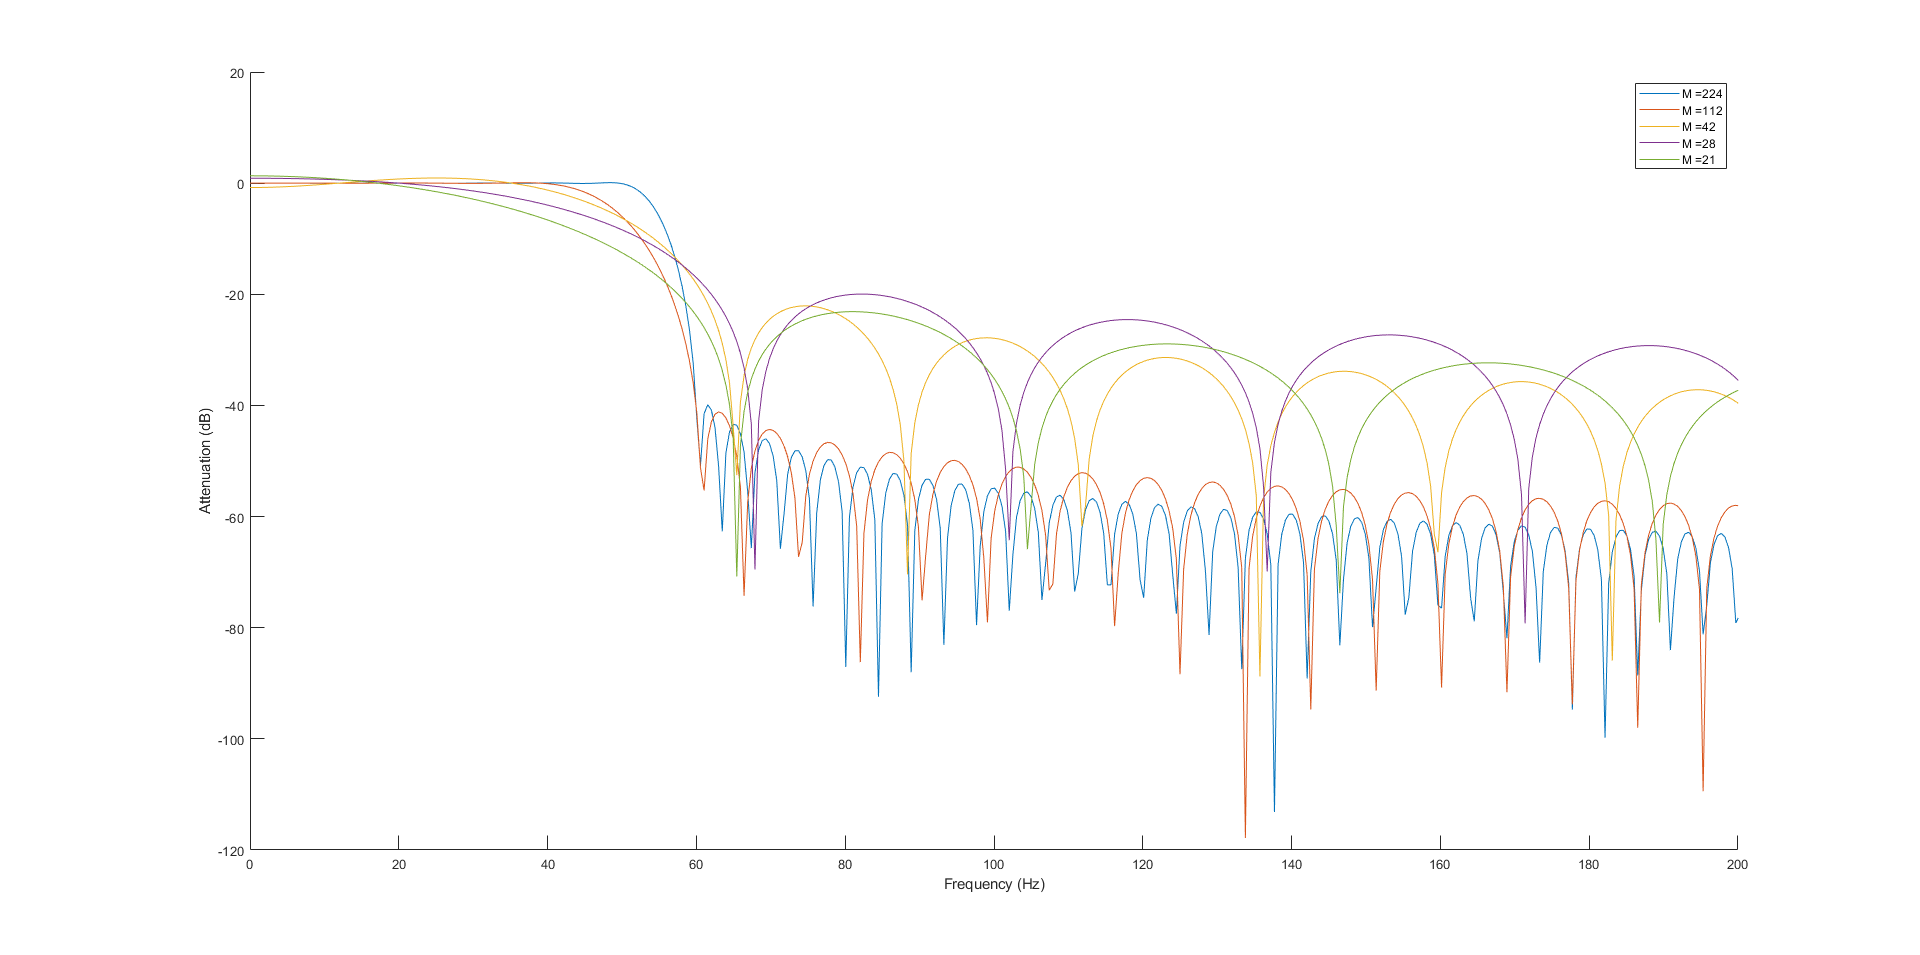
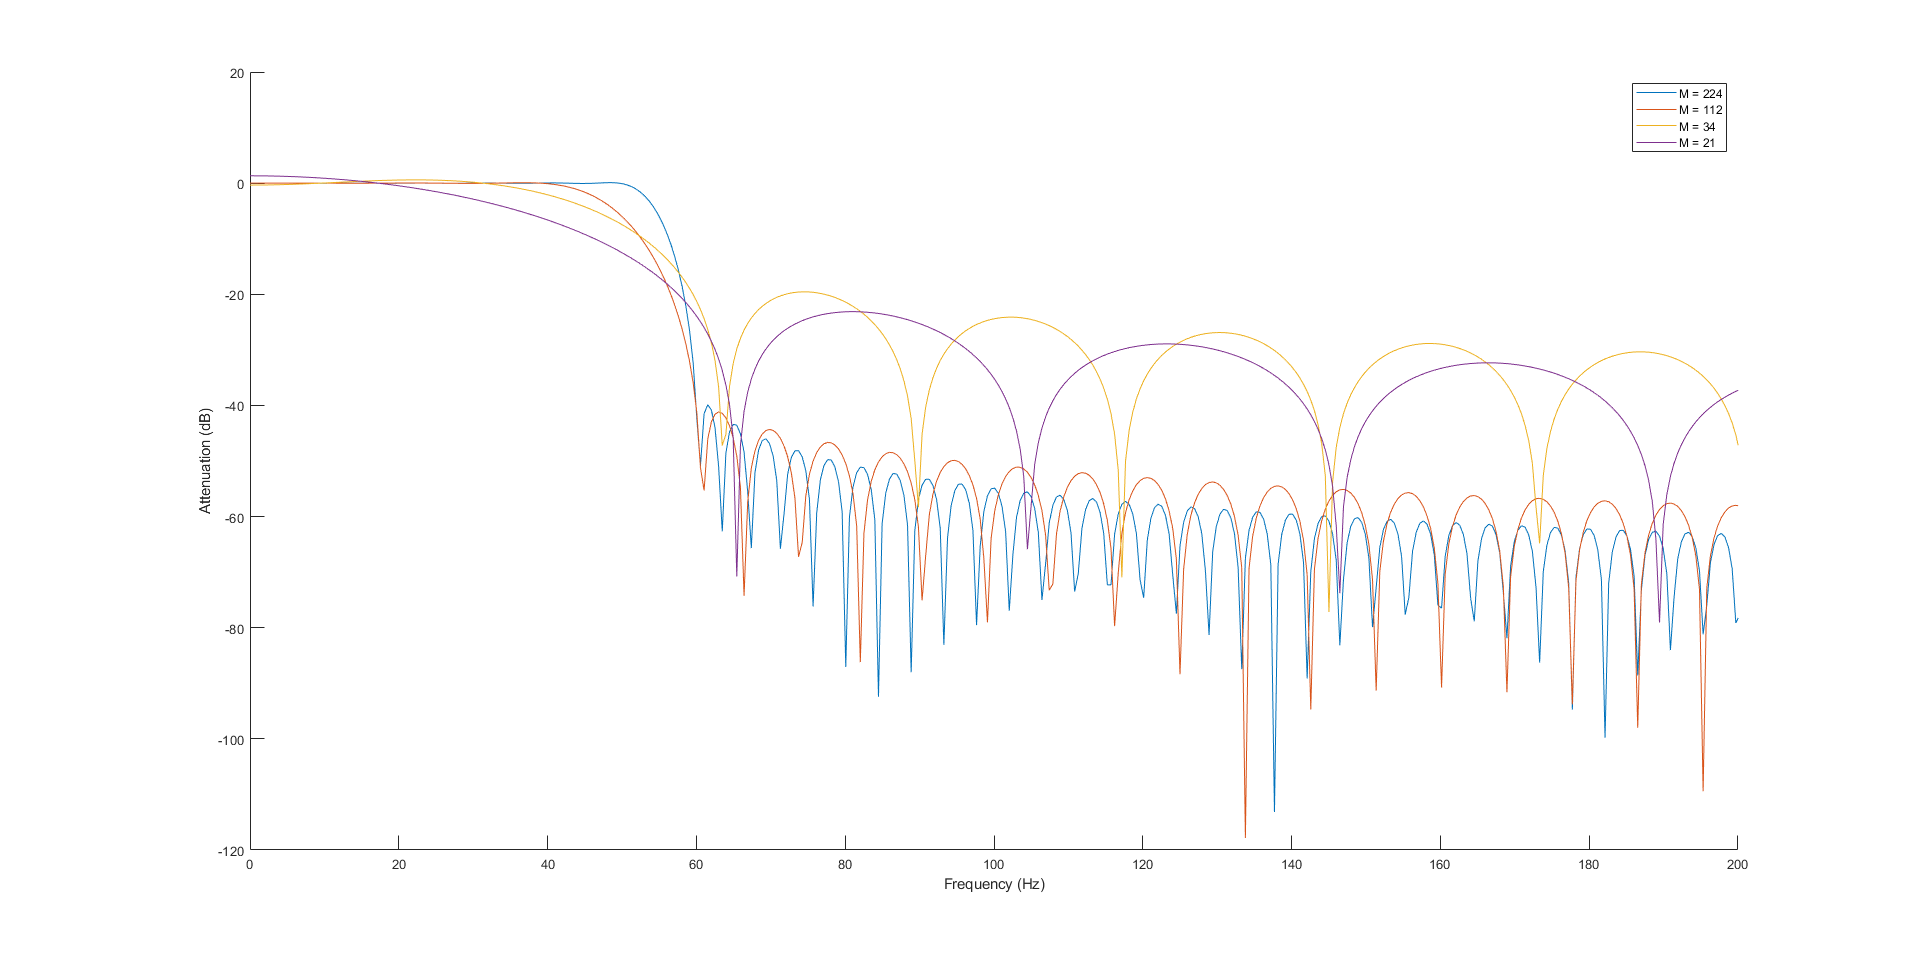
coefs influence study

diff --git a/ext/results/coefs_influence/coefs_influence.m b/ext/results/coefs_influence/coefs_influence.m
@@ -1,0 +1,50 @@
+% sampling frequency
+fsamp = 1000;
+
+% number of filter simulations
+N=4;
+opt = "BPF";
+
+% filter parameters - cutting freq, ripples
+if(opt == "LPF")
+    % LPF parameters
+%     fcuts = {[50 60],[40 60],[35 60],[30 60],[20 60]};
+    fcuts = {[50 60],[40 60],[35 60],[20 60]};
+    devs = {[0.01 0.01],[0.01 0.01],[0.1 0.1],[0.1 0.1]};
+    myfilter = @(fsamp, fcuts1, devs1) low_pass_filter(fsamp, fcuts1, devs1);
+elseif(opt == "HPF")
+    % HPF parameters
+%     fcuts = {[80 90],[70 90],[65 90],[50 90]};
+    % different freq
+    fcuts = {[130 140],[120 140],[115 140],[100 140]};
+    devs = {[0.01 0.01],[0.01 0.01],[0.1 0.1],[0.1 0.1]};
+    myfilter = @(fsamp, fcuts1, devs1) high_pass_filter(fsamp, fcuts1, devs1);
+else
+    % BPF parameters
+    fcuts = {[90 100 150 160],[80 100 150 170],[70 100 150 180],[50 100 150 200]};
+    devs = {[0.01 0.01 0.01],[0.01 0.01 0.01],[0.1 0.1 0.1],[0.1 0.1 0.1]};
+    myfilter = @(fsamp, fcuts1, devs1) band_pass_filter(fsamp, fcuts1, devs1);
+end
+
+% ------------------------------------------------------------------------
+% get filter responses
+% ------------------------------------------------------------------------
+if((size(fcuts) ~= N) | (size(devs) ~= N))
+   error("fcuts or devs dont have (%d)", N);
+end
+
+Legend=cell(N,1);
+figure
+hold on
+for k = 1:N
+    [hh{k}, n{k}] = myfilter(fsamp, fcuts{k}, devs{k});
+    [h{k}, w{k}] = freqz(hh{k}, 1, 1024, fsamp);
+    plot(w{k},20*log10(abs(h{k})));
+    Legend{k}=strcat('M =',32, num2str(n{k}));
+end
+
+xlim([0 250])
+% ylim([-60 10])
+legend(Legend)
+xlabel('Frequency (Hz)');
+ylabel('Attenuation (dB)');
